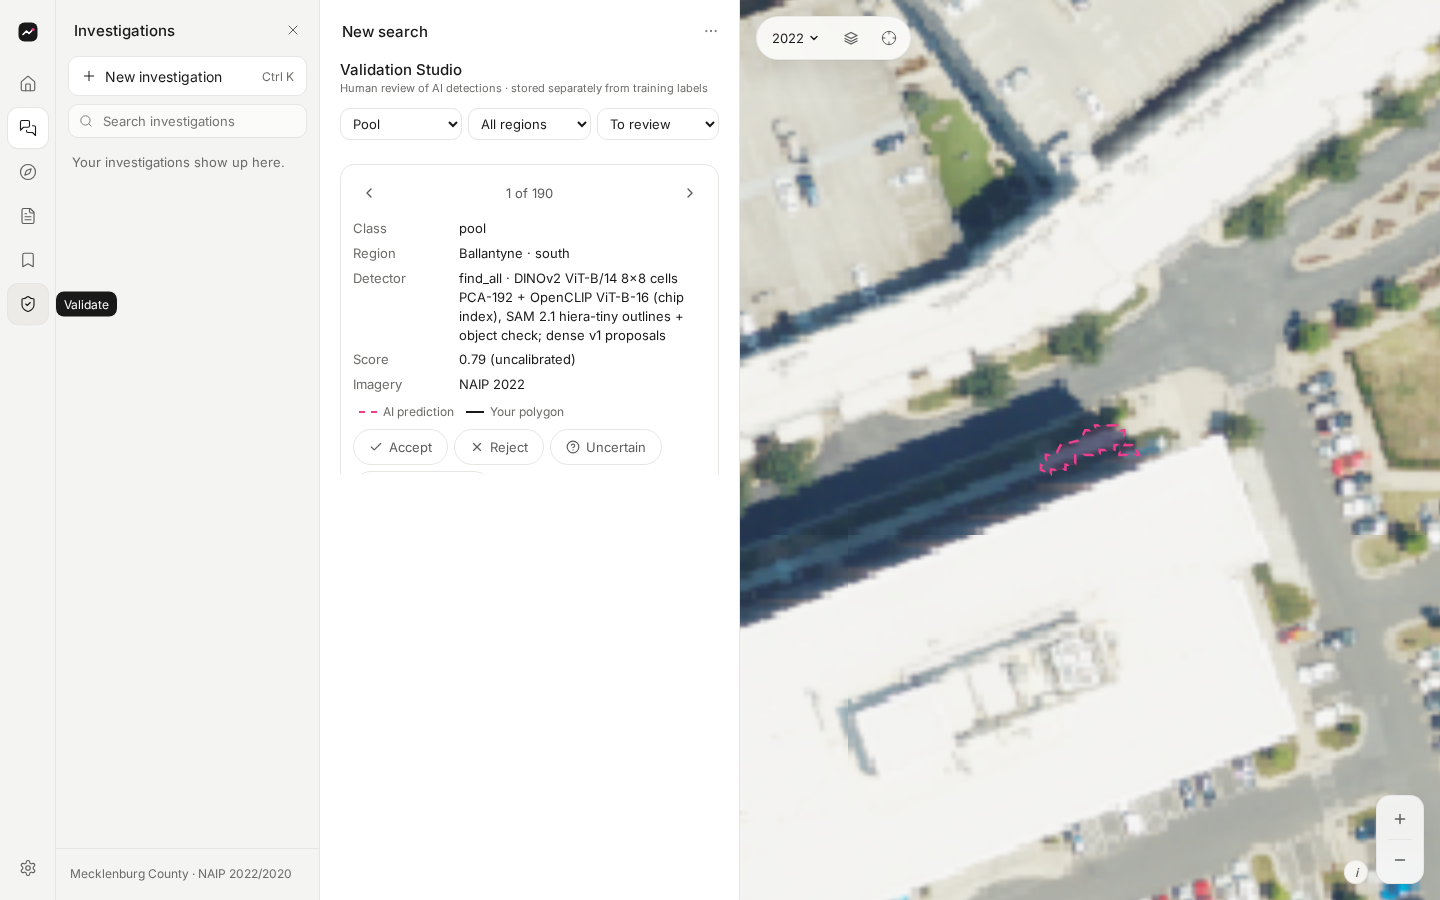
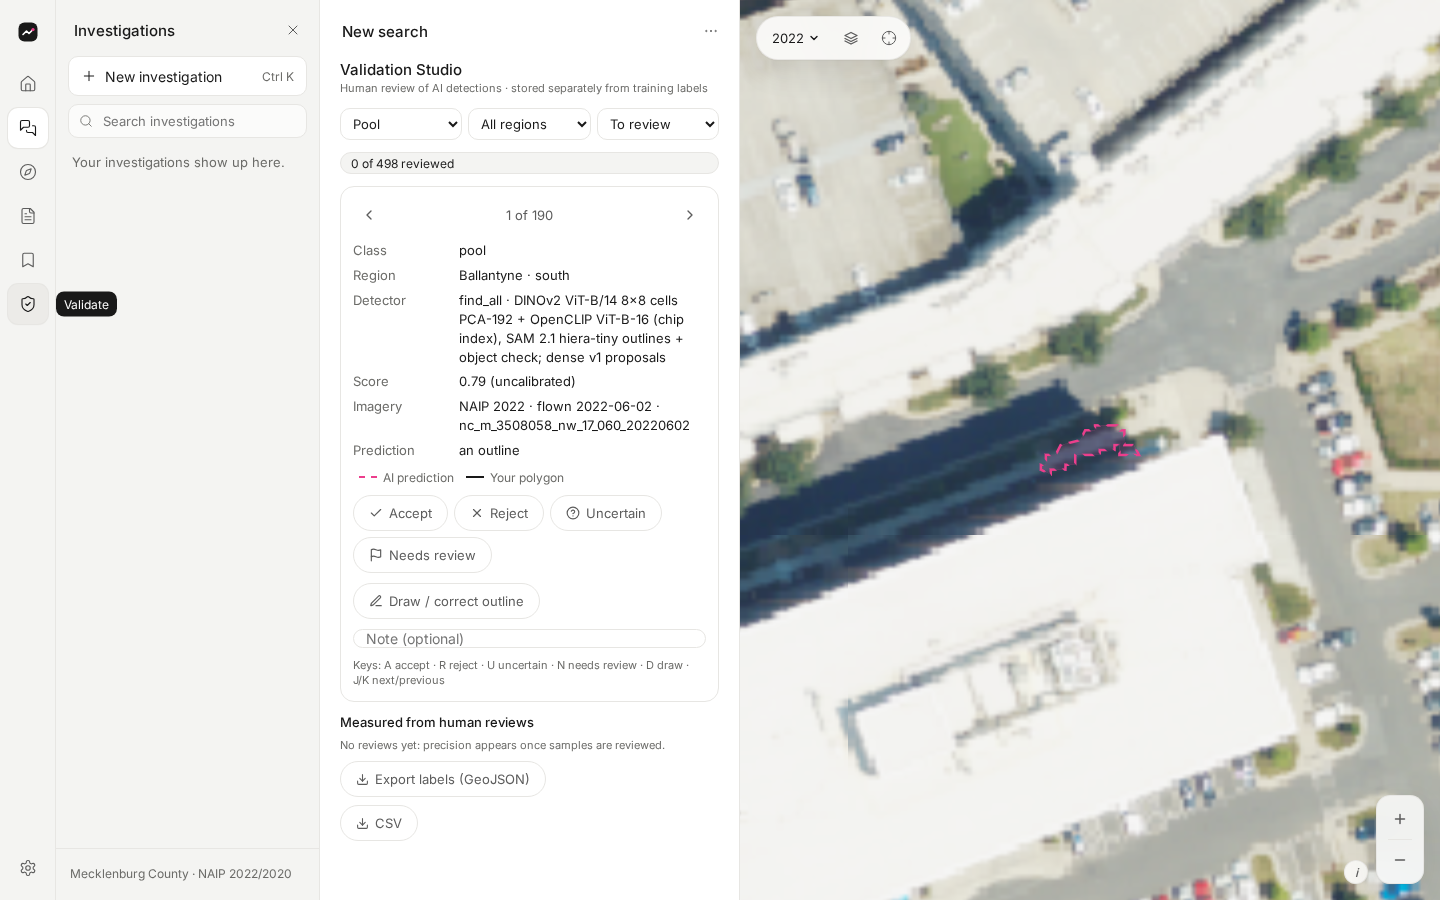
Studio layout: panel no longer clipped, visible progress, flight date + scene + outline/box per sample

diff --git a/web/app-v2/src/ValidationStudio.tsx b/web/app-v2/src/ValidationStudio.tsx
@@ -130,7 +130,8 @@ export default function ValidationStudio({ map, onToast }: { map: GtMap | null; 
             <span>Region</span><span>{cur.region}{cur.holdout_group ? ` · ${cur.holdout_group}` : ""}{cur.in_label_cluster ? " · in the training-label cluster" : ""}</span>
             <span>Detector</span><span>{cur.source_tool ?? "—"}{cur.model ? ` · ${cur.model}` : ""}</span>
             <span>Score</span><span>{cur.score != null ? `${Number(cur.score).toFixed(2)} (uncalibrated)` : "—"}</span>
-            <span>Imagery</span><span>{cur.imagery ? Object.values(cur.imagery).filter((v) => typeof v !== "object").join(" · ") : "NAIP 2022"}</span>
+            <span>Imagery</span><span>NAIP 2022{cur.acquisition_date ? ` · flown ${cur.acquisition_date}` : ""}{cur.scene_id ? ` · ${cur.scene_id}` : ""}</span>
+            {cur.geometry_kind && <><span>Prediction</span><span>{cur.geometry_kind === "box" ? "a box (no outline yet)" : "an outline"}</span></>}
             {cur.review && <><span>Your review</span><span data-testid="vs-current">{cur.review.decision.replace("_", " ")}{cur.review.polygon ? " · polygon" : ""}</span></>}
           </div>
           <div className="gt-vs-legend"><span className="gt-vs-pred" />AI prediction<span className="gt-vs-human" />Your polygon</div>

diff --git a/web/app-v2/src/App.tsx b/web/app-v2/src/App.tsx
@@ -668,7 +668,7 @@ export default function App() {
             </div>
 
             {validating && <ValidationStudio map={gm.current} onToast={setToast} />}
-            <div ref={msgsEl} data-testid="msgs" hidden={validating} style={{ flex: 1, overflowY: "auto", padding: "8px 22px 24px", display: "flex", flexDirection: "column", gap: 16 }}>
+            <div ref={msgsEl} data-testid="msgs" style={{ display: validating ? "none" : "flex", flex: 1, overflowY: "auto", padding: "8px 22px 24px", flexDirection: "column", gap: 16 }}>
               {msgs.map((m, i) => {
                 if (m.role === "user") return (
                   <div key={m.id} className="gt-in" style={{ display: "flex", flexDirection: "column", alignItems: "flex-end", gap: 4 }}>

diff --git a/web/app-v2/src/intel.css b/web/app-v2/src/intel.css
@@ -134,3 +134,6 @@
 .gt-vs-table { width: 100%; border-collapse: collapse; font-size: 12px; font-variant-numeric: tabular-nums; }
 .gt-vs-table th, .gt-vs-table td { text-align: left; padding: 4px 6px; border-bottom: 1px solid var(--hairline); }
 .gt-vs-table th { color: var(--muted-body); font-weight: 500; }
+.gt-vs-progress { border: 1px solid var(--hairline); }
+.gt-vs-progress div { background: #d9e8dd; }
+.gt-vs-card .gt-input { flex: none; }
